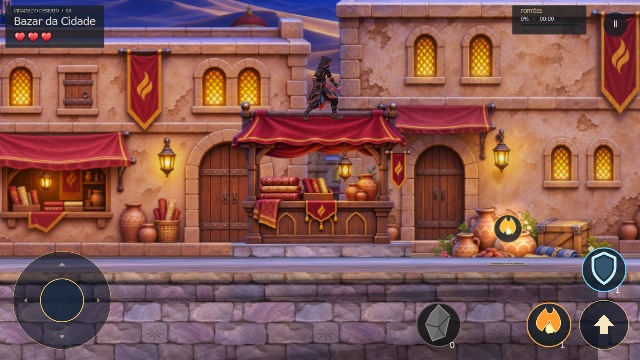
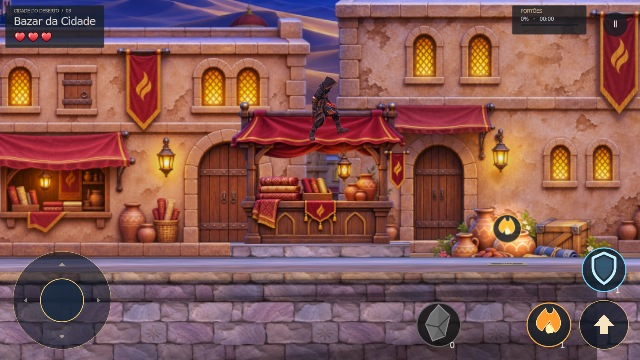
Ajusta os pés sobre o tecido da lona e atualiza capturas

diff --git a/evidence/apoios-tendas/README.md b/evidence/apoios-tendas/README.md
@@ -2,7 +2,7 @@
 
 Sobre a main `5ebf63e`, preservando o trabalho paralelo de decks/comunidade. Nenhum asset foi substituído nem criado. Mantém força/quantidade dos saltos, controles, combate, Tasks, cenário e interface.
 
-- As lonas e balcões das tendas agora sustentam o personagem. Superfícies adequadas das lojas próximas, fontes, ruínas, estruturas de mineração, caixas de mantimentos e carrinhos também recebem apoio.
+- O apoio da tenda acompanha a área central do tecido vermelho, com folga nas bordas: os pés ficam sobre a lona. As lonas e balcões das tendas agora sustentam o personagem. Superfícies adequadas das lojas próximas, fontes, ruínas, estruturas de mineração, caixas de mantimentos e carrinhos também recebem apoio.
 - O personagem atravessa esses apoios ao subir; só colide quando desce com os pés acima do topo. Não bate a cabeça, não fica preso por baixo e pode levantar após agachar sob um balcão. Ao pousar, o Godot reconhece o chão e recupera os saltos normalmente.
 - Passarelas dos obstáculos de parkour existentes também recebem a passagem por baixo. Piso principal, telhados aprovados da fase 2, pedras que caem e pontes de Tasks mantêm suas regras.
 - Apoios acompanham os limites visuais, o recorte e o espelhamento das imagens. A altura física compensa a projeção da câmera; não há plataformas visíveis adicionadas nem peças flutuantes.
@@ -43,3 +43,5 @@ python3 tests/desert_night/run.py --godot "$GODOT" --only route-01 route-02 rout
 # Export isolado de staging com feature iphone_layout_fixture, servido na porta 8135:
 node tests/desert_night/web_prop_landings_probe.cjs
 ```
+
+Ajuste do encaixe sobre a lona: repetidas as 134 verificações, as capturas nas três janelas e o percurso físico da fase 3. [Captura atual dos pés sobre o tecido](844x390/05_pes_sobre_a_lona.jpg).
